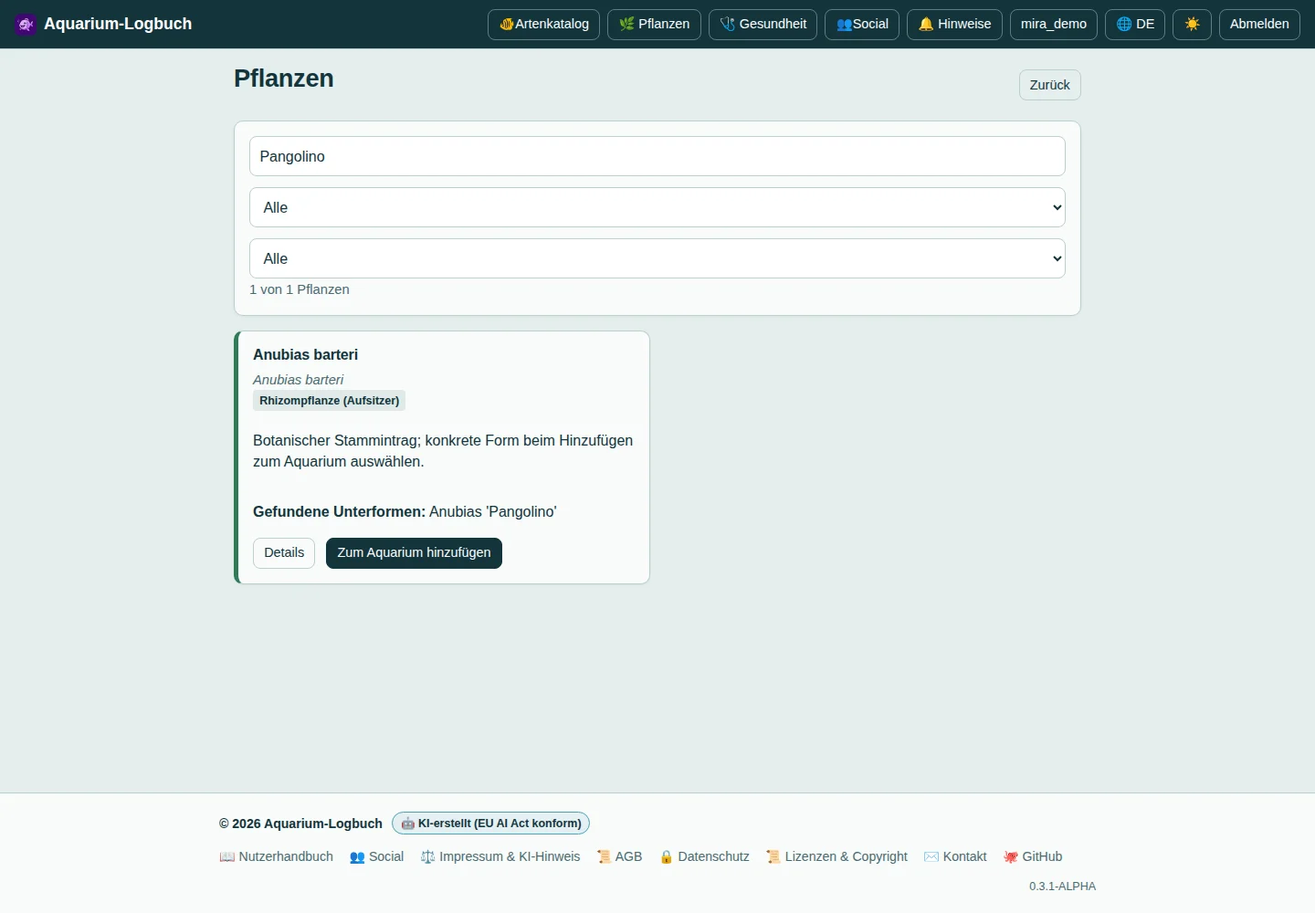
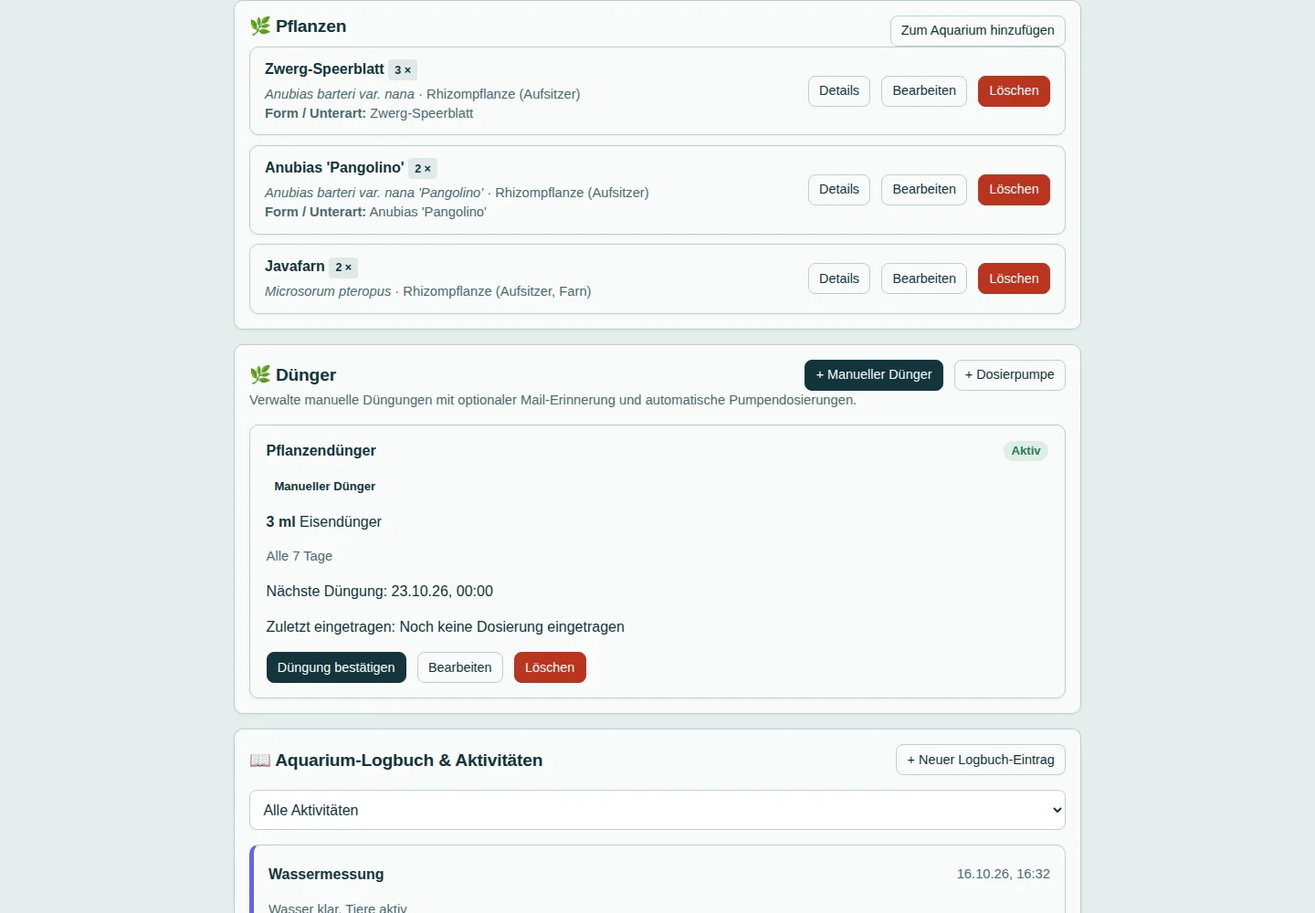
feat(aquarium): Gespeicherte Unterformen im Bestand anzeigen

diff --git a/public/handbuch/index.html b/public/handbuch/index.html
@@ -41,8 +41,8 @@
 <section id="pflege" aria-labelledby="title-pflege"><p class="eyebrow">Kapitel 06</p><h2 id="title-pflege">Pflege ins Logbuch eintragen</h2><p class="intro">Im Logbuch hältst du fest, was du am Becken gemacht hast. Messungen erscheinen dort ebenfalls.</p><figure><a href="images/logbuch.webp" aria-label="Pflege ins Logbuch eintragen: Screenshot in voller Größe öffnen"><img src="images/logbuch.webp" width="1440" height="1000" loading="lazy" decoding="async" alt="Ein neuer Logbucheintrag für einen Wasserwechsel."></a><figcaption>Ein neuer Logbucheintrag für einen Wasserwechsel. <a href="images/logbuch.webp">Vergrößern</a></figcaption></figure><ol class="steps"><li>Wähle im Aquarium „Neuer Logbuch-Eintrag“. Stelle Zeitpunkt und Art der Arbeit ein.</li><li>Für einen Wasserwechsel gibst du den gewechselten Anteil in Prozent an. Beschreibe andere Arbeiten in den passenden Feldern.</li><li>Du kannst unter anderem Wasserwechsel, Filterpflege, Pflanzenschnitt, neue Pflanzen, Reinigung, Düngung und Fütterung dokumentieren.</li><li>Speichere den Eintrag. Im Bereich „Aquarium-Logbuch &amp; Aktivitäten“ kannst du nach Aktivitätsart filtern und ältere Einträge nachladen.</li><li>Bei eigenen oder entsprechend freigegebenen Aquarien kannst du Pflegeeinträge bearbeiten oder löschen.</li></ol><aside class="note"><h3>Erinnerungen einrichten</h3><p>Über „Zyklen einstellen“ legst du Intervalle für Messung und Düngung fest, zum Beispiel alle sieben Tage oder an einem Wochentag. Die App zeigt fällige Arbeiten an. E-Mail-Erinnerungen benötigen aktivierte Erinnerungen und eingerichteten Mailversand.</p></aside><a class="back-top" href="#inhalt">↑ Zum Inhaltsverzeichnis</a></section>
 <section id="duengung" aria-labelledby="title-duengung"><p class="eyebrow">Kapitel 07</p><h2 id="title-duengung">Dünger und Dosierpläne verwalten</h2><p class="intro">Die App dokumentiert Düngungen und erinnert an geplante Arbeiten. Sie schaltet keine echte Dosierpumpe.</p><figure><a href="images/duenger.webp" aria-label="Dünger und Dosierpläne verwalten: Screenshot in voller Größe öffnen"><img src="images/duenger.webp" width="1440" height="1000" loading="lazy" decoding="async" alt="Der Düngerbereich mit einem manuellen Beispieldünger."></a><figcaption>Der Düngerbereich mit einem manuellen Beispieldünger. <a href="images/duenger.webp">Vergrößern</a></figcaption></figure><ol class="steps"><li>Scrolle im Aquarium zu „Dünger“. Wähle „+ Manueller Dünger“ oder „+ Dosierpumpe“.</li><li>Gib einen verständlichen Namen, den Dünger, die Menge in Millilitern und das Intervall ein. Ergänze die angebotenen Zeit- und Erinnerungsfelder.</li><li>Bei einem manuellen Dünger bestätigst du die tatsächlich erledigte Dosierung über die angebotene Schaltfläche. Dadurch entsteht ein Logbucheintrag.</li><li>Bei automatischen Pumpenplänen dokumentiert die App fällige Dosierungen gemäß dem Plan. Kontrolliere die echte Pumpe unabhängig davon.</li><li>Bearbeite oder pausiere einen Plan, wenn sich die Düngung ändert. Beim Entfernen eines Plans bleiben bereits vorhandene Logbucheinträge erhalten.</li></ol><a class="back-top" href="#inhalt">↑ Zum Inhaltsverzeichnis</a></section>
 <section id="arten" aria-labelledby="title-arten"><p class="eyebrow">Kapitel 08</p><h2 id="title-arten">Artenkatalog als Nachschlagewerk</h2><p class="intro">Du kannst auch ohne einen neuen Besatzeintrag nach einer Art suchen.</p><figure><a href="images/arten.webp" aria-label="Artenkatalog als Nachschlagewerk: Screenshot in voller Größe öffnen"><img src="images/arten.webp" width="1440" height="1000" loading="lazy" decoding="async" alt="Suche nach L144: Die Stammkachel nennt die gefundene Unterform."></a><figcaption>Suche nach L144: Die Stammkachel nennt die gefundene Unterform. <a href="images/arten.webp">Vergrößern</a></figcaption></figure><ol class="steps"><li>Öffne „Artenkatalog“ in der Kopfzeile.</li><li>Schränke die Liste über Wasserart und Kategorie ein oder suche nach Art, Zuchtform oder Handelsname. Passende Formen führen zu einer gemeinsamen Stammkachel. Der Hinweis „Gefundene Unterformen“ nennt die passenden Formen direkt auf der Kachel.</li><li>Öffne einen Treffer. Lies Wasseransprüche, Gruppenhinweise, Mindestvolumen, Haltung und Bildnachweise.</li><li>Füge eine passende Art bei Bedarf aus ihren Details zu einem Aquarium hinzu oder öffne den zugeordneten Gesundheitsbereich.</li></ol><a class="back-top" href="#inhalt">↑ Zum Inhaltsverzeichnis</a></section>
-<section id="besatz" aria-labelledby="title-besatz"><p class="eyebrow">Kapitel 09</p><h2 id="title-besatz">Tiere und Verträglichkeit</h2><p class="intro">Erfasse Tiere möglichst über den Artenkatalog, damit ihre Haltungsanforderungen zugeordnet werden können.</p><figure><a href="images/besatz.webp" aria-label="Tiere und Verträglichkeit: Screenshot in voller Größe öffnen"><img src="images/besatz.webp" width="1440" height="1000" loading="lazy" decoding="async" alt="Tiere hinzufügen: Die Goldform wird beim gemeinsamen Fadenfisch-Eintrag ausgewählt."></a><figcaption>Tiere hinzufügen: Die Goldform wird beim gemeinsamen Fadenfisch-Eintrag ausgewählt. <a href="images/besatz.webp">Vergrößern</a></figcaption></figure><ol class="steps"><li>Öffne „Artenkatalog“ und suche nach der gewünschten Art. Prüfe Wasserart, Beckenvolumen und Gruppenhinweise.</li><li>Wähle beim Stammeintrag „Zum Aquarium hinzufügen“. Im Feld „Form / Unterart“ wählst du die belegte Form oder Varietät oder lässt sie offen. Trage dann die Anzahl ein; einzelne Tiere dürfen eigene Namen bekommen.</li><li>Im Aquarium kannst du auch freie Bewohner eintragen, Anzahl und Namen ändern sowie ein Porträt hochladen.</li><li>„Artendetails“ öffnet bei bekannten Arten die Informationen erneut. Über den Bewohner kannst du auch den Diagnose-Assistenten aufrufen.</li><li>Lies die Verträglichkeitshinweise zu Gruppengröße, Beckengröße, Verhalten und Ansprüchen. Bei freien Einträgen ohne Katalogtreffer stehen weniger automatische Informationen zur Verfügung.</li><li>Entferne Tiere, die nicht mehr im Becken sind, damit Auswertungen und Grenzwerte zum aktuellen Besatz passen.</li></ol><aside class="note"><h3>Artenkatalog durchsuchen</h3><p>Filtere nach Wasserart und Kategorie oder suche nach Namen. Ein Bild öffnet nicht automatisch eine Freigabe deines Aquariums. Quellen und Bildnachweise findest du in den Artendetails.</p></aside><a class="back-top" href="#inhalt">↑ Zum Inhaltsverzeichnis</a></section>
-<section id="pflanzen" aria-labelledby="title-pflanzen"><p class="eyebrow">Kapitel 10</p><h2 id="title-pflanzen">Pflanzen suchen und zum Becken hinzufügen</h2><p class="intro">Der Pflanzenkatalog hilft dir, passende Pflanzen zu finden und den Bestand im Aquarium festzuhalten.</p><figure><a href="images/pflanzen.webp" aria-label="Pflanzen suchen und zum Becken hinzufügen: Screenshot in voller Größe öffnen"><img src="images/pflanzen.webp" width="1440" height="1000" loading="lazy" decoding="async" alt="Suche nach Pangolino: Die Anubias-barteri-Kachel nennt die gefundene Unterform."></a><figcaption>Suche nach Pangolino: Die Anubias-barteri-Kachel nennt die gefundene Unterform. <a href="images/pflanzen.webp">Vergrößern</a></figcaption></figure><ol class="steps"><li>Öffne „Pflanzen“ in der Kopfzeile. Filtere nach Wasserart und Kategorie oder suche nach Art- bzw. Sortennamen. Formen erscheinen unter einer gemeinsamen Stammkachel; „Gefundene Unterformen“ zeigt passende Formen zur Suche an.</li><li>Öffne eine Pflanze und lies die Hinweise zu Platzierung, Licht, Wachstum und Pflege.</li><li>Wähle „Zum Aquarium hinzufügen“, ein passendes Aquarium und gegebenenfalls die konkrete Form im Feld „Form / Unterart“. Gib die Stückzahl an und speichere. Die ausgewählte Form bleibt im Bestand getrennt erkennbar.</li><li>Im Pflanzenbereich des Aquariums kannst du Mengen ändern oder Pflanzen entfernen.</li><li>Einen Pflanzenschnitt oder eine Neupflanzung dokumentierst du zusätzlich im Logbuch, wenn du die Arbeit im Verlauf festhalten möchtest.</li></ol><a class="back-top" href="#inhalt">↑ Zum Inhaltsverzeichnis</a></section>
+<section id="besatz" aria-labelledby="title-besatz"><p class="eyebrow">Kapitel 09</p><h2 id="title-besatz">Tiere und Verträglichkeit</h2><p class="intro">Erfasse Tiere möglichst über den Artenkatalog, damit ihre Haltungsanforderungen zugeordnet werden können.</p><figure><a href="images/besatz.webp" aria-label="Tiere und Verträglichkeit: Screenshot in voller Größe öffnen"><img src="images/besatz.webp" width="1440" height="1000" loading="lazy" decoding="async" alt="Aquariumbesatz: Auch beim Tier mit eigenem Namen wird die gewählte Goldform angezeigt."></a><figcaption>Aquariumbesatz: Auch beim Tier mit eigenem Namen wird die gewählte Goldform angezeigt. <a href="images/besatz.webp">Vergrößern</a></figcaption></figure><ol class="steps"><li>Öffne „Artenkatalog“ und suche nach der gewünschten Art. Prüfe Wasserart, Beckenvolumen und Gruppenhinweise.</li><li>Wähle beim Stammeintrag „Zum Aquarium hinzufügen“. Im Feld „Form / Unterart“ wählst du die belegte Form oder Varietät oder lässt sie offen. Trage dann die Anzahl ein; einzelne Tiere dürfen eigene Namen bekommen.</li><li>Im Aquarium kannst du auch freie Bewohner eintragen, Anzahl und Namen ändern sowie ein Porträt hochladen. Bei gespeicherten Formen zeigt „Form / Unterart“ die gewählte Form an, auch bei Tieren mit eigenem Namen und offline.</li><li>„Artendetails“ öffnet bei bekannten Arten die Informationen erneut. Über den Bewohner kannst du auch den Diagnose-Assistenten aufrufen.</li><li>Lies die Verträglichkeitshinweise zu Gruppengröße, Beckengröße, Verhalten und Ansprüchen. Bei freien Einträgen ohne Katalogtreffer stehen weniger automatische Informationen zur Verfügung.</li><li>Entferne Tiere, die nicht mehr im Becken sind, damit Auswertungen und Grenzwerte zum aktuellen Besatz passen.</li></ol><aside class="note"><h3>Artenkatalog durchsuchen</h3><p>Filtere nach Wasserart und Kategorie oder suche nach Namen. Ein Bild öffnet nicht automatisch eine Freigabe deines Aquariums. Quellen und Bildnachweise findest du in den Artendetails.</p></aside><a class="back-top" href="#inhalt">↑ Zum Inhaltsverzeichnis</a></section>
+<section id="pflanzen" aria-labelledby="title-pflanzen"><p class="eyebrow">Kapitel 10</p><h2 id="title-pflanzen">Pflanzen suchen und zum Becken hinzufügen</h2><p class="intro">Der Pflanzenkatalog hilft dir, passende Pflanzen zu finden und den Bestand im Aquarium festzuhalten.</p><figure><a href="images/pflanzen.webp" aria-label="Pflanzen suchen und zum Becken hinzufügen: Screenshot in voller Größe öffnen"><img src="images/pflanzen.webp" width="1440" height="1000" loading="lazy" decoding="async" alt="Pflanzenbestand im Aquarium: Gewählte Formen wie Pangolino werden ausdrücklich angezeigt."></a><figcaption>Pflanzenbestand im Aquarium: Gewählte Formen wie Pangolino werden ausdrücklich angezeigt. <a href="images/pflanzen.webp">Vergrößern</a></figcaption></figure><ol class="steps"><li>Öffne „Pflanzen“ in der Kopfzeile. Filtere nach Wasserart und Kategorie oder suche nach Art- bzw. Sortennamen. Formen erscheinen unter einer gemeinsamen Stammkachel; „Gefundene Unterformen“ zeigt passende Formen zur Suche an.</li><li>Öffne eine Pflanze und lies die Hinweise zu Platzierung, Licht, Wachstum und Pflege.</li><li>Wähle „Zum Aquarium hinzufügen“, ein passendes Aquarium und gegebenenfalls die konkrete Form im Feld „Form / Unterart“. Gib die Stückzahl an und speichere. Die ausgewählte Form bleibt im Bestand getrennt erkennbar. Im Aquarium steht die gewählte Form zusätzlich unter „Form / Unterart“, auch offline.</li><li>Im Pflanzenbereich des Aquariums kannst du Mengen ändern oder Pflanzen entfernen.</li><li>Einen Pflanzenschnitt oder eine Neupflanzung dokumentierst du zusätzlich im Logbuch, wenn du die Arbeit im Verlauf festhalten möchtest.</li></ol><a class="back-top" href="#inhalt">↑ Zum Inhaltsverzeichnis</a></section>
 <section id="fotos" aria-labelledby="title-fotos"><p class="eyebrow">Kapitel 11</p><h2 id="title-fotos">Fotos und Galerie</h2><p class="intro">Galeriefotos gehören zunächst zu deinem Aquarium. Sie werden nicht automatisch im öffentlichen Social-Feed veröffentlicht.</p><figure><a href="images/galerie.webp" aria-label="Fotos und Galerie: Screenshot in voller Größe öffnen"><img src="images/galerie.webp" width="1440" height="1000" loading="lazy" decoding="async" alt="Die Galerie des Demo-Aquariums mit einer ausdrücklich künstlichen Beispielillustration."></a><figcaption>Die Galerie des Demo-Aquariums mit einer ausdrücklich künstlichen Beispielillustration. <a href="images/galerie.webp">Vergrößern</a></figcaption></figure><ol class="steps"><li>Wähle im Aquarium „+ Foto hochladen“. Erlaubt sind PNG, JPG, WebP oder GIF bis zur angezeigten Grenze von fünf Megabyte.</li><li>Wähle ein eigenes Bild und ergänze eine Bildunterschrift. Du kannst das Foto als Titelbild des Aquariums festlegen.</li><li>Öffne ein Galeriebild für die Großansicht. Bildunterschriften und Titelbild lassen sich später ändern.</li><li>Nicht mehr benötigte Bilder kannst du mit ausreichender Berechtigung löschen.</li><li>Ein Porträt für einen Bewohner lädst du im Besatzbereich hoch. Deinen eigenen Avatar änderst du im Profil.</li></ol><a class="back-top" href="#inhalt">↑ Zum Inhaltsverzeichnis</a></section>
 <section id="teilen" aria-labelledby="title-teilen"><p class="eyebrow">Kapitel 12</p><h2 id="title-teilen">Ein Aquarium mit anderen teilen</h2><p class="intro">Eine Aquariumfreigabe ist etwas anderes als ein öffentlicher Social-Beitrag. Eine Freigabe geht an ein bestimmtes Benutzerkonto.</p><figure><a href="images/freigaben.webp" aria-label="Ein Aquarium mit anderen teilen: Screenshot in voller Größe öffnen"><img src="images/freigaben.webp" width="1440" height="1000" loading="lazy" decoding="async" alt="Eine bestehende Schreibfreigabe für das erfundene Konto leo_demo."></a><figcaption>Eine bestehende Schreibfreigabe für das erfundene Konto leo_demo. <a href="images/freigaben.webp">Vergrößern</a></figcaption></figure><ol class="steps"><li>Öffne dein eigenes Aquarium und wähle „Aquarium teilen“. Suche nach Benutzername oder E-Mail-Adresse des anderen Kontos.</li><li>Wähle „Lesen“, wenn die Person nur schauen soll. Mit „Schreiben“ kann sie zusätzlich unterstützte Daten pflegen.</li><li>Die eingeladene Person nimmt die Einladung an. Danach findet sie das Becken unter „Mit mir geteilt“.</li><li>Du kannst bestehende Freigaben prüfen, die Rolle ändern oder den Zugriff entziehen. Nur der Eigentümer verwaltet die Freigaben.</li><li>Einladungen und Rechteänderungen brauchen eine Serververbindung.</li></ol><aside class="note"><h3>Was bedeuten die Rollen?</h3><p>Lesen erlaubt das Ansehen von Daten, Verlauf, Besatz und Bildern. Schreiben erlaubt zusätzlich zum Beispiel Messungen, Pflege und Besatzänderungen. Das Löschen des gesamten Aquariums bleibt dem Eigentümer vorbehalten. Offline gespeicherte Kopien auf fremden Geräten lassen sich durch einen Rechteentzug nicht rückwirkend vom Gerät löschen.</p></aside><a class="back-top" href="#inhalt">↑ Zum Inhaltsverzeichnis</a></section>
 <section id="csv" aria-labelledby="title-csv"><p class="eyebrow">Kapitel 13</p><h2 id="title-csv">Messdaten importieren und exportieren</h2><p class="intro">CSV ist ein einfaches Tabellenformat. Damit kannst du Daten übertragen oder in einem Tabellenprogramm auswerten.</p><figure><a href="images/csv-import.webp" aria-label="Messdaten importieren und exportieren: Screenshot in voller Größe öffnen"><img src="images/csv-import.webp" width="1440" height="1000" loading="lazy" decoding="async" alt="CSV-Import mit Vorschau und Spaltenzuordnung."></a><figcaption>CSV-Import mit Vorschau und Spaltenzuordnung. <a href="images/csv-import.webp">Vergrößern</a></figcaption></figure><ol class="steps"><li>Wähle im Aquarium „CSV-Export“, um Messdaten herunterzuladen. Für Excel eignet sich die angebotene Variante mit Semikolon; es entsteht eine CSV-Datei, keine XLSX-Datei.</li><li>Wähle „CSV-Import“, wenn du vorhandene Messwerte übernehmen möchtest. Lade eine Datei oder nutze das angebotene Texteingabefeld.</li><li>Prüfe das Trennzeichen und ob die erste Zeile Überschriften enthält.</li><li>Ordne jede benötigte Spalte einem Feld zu, zum Beispiel Datum, Uhrzeit, pH-Wert oder Notiz. Nicht benötigte Spalten kannst du ignorieren.</li><li>Kontrolliere die Vorschau und starte erst dann den Import. Beachte Hinweise zu ungültigen oder übersprungenen Zeilen.</li><li>Prüfe anschließend Verlauf und Tabelle. Importierte Messwerte werden bewertet und können Testverbrauch erzeugen.</li></ol><aside class="note"><h3>Vor größeren Importen</h3><p>Bewahre die Originaldatei auf und lasse wichtige vorhandene Daten vorher sichern. Ein zweiter absichtlicher Import derselben Datei ist eine neue Aktion; die Wiederholungssicherung beim Synchronisieren ersetzt keine Prüfung deiner Importauswahl.</p></aside><a class="back-top" href="#inhalt">↑ Zum Inhaltsverzeichnis</a></section>

diff --git a/public/handbuch/en/index.html b/public/handbuch/en/index.html
@@ -41,8 +41,8 @@
 <section id="pflege" aria-labelledby="title-pflege"><p class="eyebrow">Chapter 06</p><h2 id="title-pflege">Record care in the logbook</h2><p class="intro">Use the logbook to record work on your tank. Measurements appear there too.</p><figure><a href="../images/logbuch.webp" aria-label="Record care in the logbook: Open screenshot at full size"><img src="../images/logbuch.webp" width="1440" height="1000" loading="lazy" decoding="async" alt="A new logbook entry for a water change."></a><figcaption>A new logbook entry for a water change. <a href="../images/logbuch.webp">Enlarge</a></figcaption></figure><ol class="steps"><li>Choose “New logbook entry” in the aquarium. Set the time and type of work.</li><li>For water changes, enter the percentage of water replaced. Describe other work in the appropriate fields.</li><li>You can document water changes, filter maintenance, plant trimming, new plants, cleaning, fertilization, feeding and other activities.</li><li>Save the entry. In “Aquarium logbook &amp; activities”, filter by activity type or load older entries.</li><li>You can edit or delete care entries in your own aquariums or tanks shared with the appropriate permission.</li></ol><aside class="note"><h3>Set up reminders</h3><p>Use “Configure cycles” to set measurement and fertilization intervals, such as every seven days or on a specific weekday. The app shows due tasks. Email reminders require enabled reminders and configured email delivery.</p></aside><a class="back-top" href="#inhalt">↑ Back to contents</a></section>
 <section id="duengung" aria-labelledby="title-duengung"><p class="eyebrow">Chapter 07</p><h2 id="title-duengung">Manage fertilizers and dosing plans</h2><p class="intro">The app records fertilization and reminds you of planned work. It does not control a physical dosing pump.</p><figure><a href="../images/duenger.webp" aria-label="Manage fertilizers and dosing plans: Open screenshot at full size"><img src="../images/duenger.webp" width="1440" height="1000" loading="lazy" decoding="async" alt="The fertilizer section with an example manual fertilizer."></a><figcaption>The fertilizer section with an example manual fertilizer. <a href="../images/duenger.webp">Enlarge</a></figcaption></figure><ol class="steps"><li>Scroll to “Fertilizers” in the aquarium. Choose “+ Manual fertilizer” or “+ Dosing pump”.</li><li>Enter a clear name, the fertilizer, the amount in milliliters and the interval. Fill in the available time and reminder options.</li><li>For a manual fertilizer, confirm a dose you have actually administered using the provided button. This creates a logbook entry.</li><li>For automatic pump schedules, the app records due doses according to the plan. Check your physical pump independently.</li><li>Edit or pause a plan when your fertilization changes. Removing a plan leaves existing logbook entries intact.</li></ol><a class="back-top" href="#inhalt">↑ Back to contents</a></section>
 <section id="arten" aria-labelledby="title-arten"><p class="eyebrow">Chapter 08</p><h2 id="title-arten">Use the species catalog as a reference</h2><p class="intro">You can look up a species without adding a new resident.</p><figure><a href="../images/arten.webp" aria-label="Use the species catalog as a reference: Open screenshot at full size"><img src="../images/arten.webp" width="1440" height="1000" loading="lazy" decoding="async" alt="Searching for L144: the parent card names the matching form."></a><figcaption>Searching for L144: the parent card names the matching form. <a href="../images/arten.webp">Enlarge</a></figcaption></figure><ol class="steps"><li>Open “Species catalog” in the header.</li><li>Filter by water type and category, or search for a species, cultivar or trade name. Matching forms lead to one shared parent card. “Matching forms” lists their names directly on the card.</li><li>Open a result. Read its water requirements, group guidance, minimum tank volume, care information and image credits.</li><li>If appropriate, add the species to an aquarium from its details or open the linked health information.</li></ol><a class="back-top" href="#inhalt">↑ Back to contents</a></section>
-<section id="besatz" aria-labelledby="title-besatz"><p class="eyebrow">Chapter 09</p><h2 id="title-besatz">Animals and compatibility</h2><p class="intro">Add animals through the species catalog whenever possible so their care requirements can be associated with them.</p><figure><a href="../images/besatz.webp" aria-label="Animals and compatibility: Open screenshot at full size"><img src="../images/besatz.webp" width="1440" height="1000" loading="lazy" decoding="async" alt="Adding animals: the Gold form is selected under the shared three-spot gourami entry."></a><figcaption>Adding animals: the Gold form is selected under the shared three-spot gourami entry. <a href="../images/besatz.webp">Enlarge</a></figcaption></figure><ol class="steps"><li>Open “Species catalog” and search for the species. Check its water type, tank volume and group requirements.</li><li>Choose “Add to aquarium” from the parent entry. Select a documented form or variety in “Form / subspecies”, or leave it unspecified. Then enter the quantity; individual animals can have names.</li><li>In the aquarium, you can also add custom residents, change quantities and names, or upload a portrait.</li><li>For known species, “Species details” opens their information again. You can also start the diagnosis assistant from a resident.</li><li>Read compatibility guidance on group size, tank size, behavior and requirements. Custom entries without a catalog match have less automatic information.</li><li>Remove animals that are no longer in the tank so assessments and thresholds reflect the current stock.</li></ol><aside class="note"><h3>Browse the species catalog</h3><p>Filter by water type and category or search by name. Viewing an image does not share your aquarium. Sources and image credits are listed in the species details.</p></aside><a class="back-top" href="#inhalt">↑ Back to contents</a></section>
-<section id="pflanzen" aria-labelledby="title-pflanzen"><p class="eyebrow">Chapter 10</p><h2 id="title-pflanzen">Find plants and add them to a tank</h2><p class="intro">The plant catalog helps you find suitable plants and record the stock in your aquarium.</p><figure><a href="../images/pflanzen.webp" aria-label="Find plants and add them to a tank: Open screenshot at full size"><img src="../images/pflanzen.webp" width="1440" height="1000" loading="lazy" decoding="async" alt="Searching for Pangolino: the Anubias barteri card names the matching form."></a><figcaption>Searching for Pangolino: the Anubias barteri card names the matching form. <a href="../images/pflanzen.webp">Enlarge</a></figcaption></figure><ol class="steps"><li>Open “Plants” in the header. Filter by water type or category, or search for a species or cultivar name. Forms appear under a shared parent card; “Matching forms” lists the forms found by your search.</li><li>Open a plant and read its placement, lighting, growth and care guidance.</li><li>Choose “Add to aquarium”, select a suitable aquarium and, if offered, the specific form in “Form / subspecies”. Enter the quantity and save. The selected form keeps its own stock entry.</li><li>In the aquarium’s plant section, you can change quantities or remove plants.</li><li>To record trimming or planting in your history, add a separate logbook entry for that work.</li></ol><a class="back-top" href="#inhalt">↑ Back to contents</a></section>
+<section id="besatz" aria-labelledby="title-besatz"><p class="eyebrow">Chapter 09</p><h2 id="title-besatz">Animals and compatibility</h2><p class="intro">Add animals through the species catalog whenever possible so their care requirements can be associated with them.</p><figure><a href="../images/besatz.webp" aria-label="Animals and compatibility: Open screenshot at full size"><img src="../images/besatz.webp" width="1440" height="1000" loading="lazy" decoding="async" alt="Aquarium residents: the selected Gold form is shown even for an individually named animal."></a><figcaption>Aquarium residents: the selected Gold form is shown even for an individually named animal. <a href="../images/besatz.webp">Enlarge</a></figcaption></figure><ol class="steps"><li>Open “Species catalog” and search for the species. Check its water type, tank volume and group requirements.</li><li>Choose “Add to aquarium” from the parent entry. Select a documented form or variety in “Form / subspecies”, or leave it unspecified. Then enter the quantity; individual animals can have names.</li><li>In the aquarium, you can also add custom residents, change quantities and names, or upload a portrait. “Form / subspecies” identifies the selected form, including individually named animals and offline.</li><li>For known species, “Species details” opens their information again. You can also start the diagnosis assistant from a resident.</li><li>Read compatibility guidance on group size, tank size, behavior and requirements. Custom entries without a catalog match have less automatic information.</li><li>Remove animals that are no longer in the tank so assessments and thresholds reflect the current stock.</li></ol><aside class="note"><h3>Browse the species catalog</h3><p>Filter by water type and category or search by name. Viewing an image does not share your aquarium. Sources and image credits are listed in the species details.</p></aside><a class="back-top" href="#inhalt">↑ Back to contents</a></section>
+<section id="pflanzen" aria-labelledby="title-pflanzen"><p class="eyebrow">Chapter 10</p><h2 id="title-pflanzen">Find plants and add them to a tank</h2><p class="intro">The plant catalog helps you find suitable plants and record the stock in your aquarium.</p><figure><a href="../images/pflanzen.webp" aria-label="Find plants and add them to a tank: Open screenshot at full size"><img src="../images/pflanzen.webp" width="1440" height="1000" loading="lazy" decoding="async" alt="Plants in the aquarium: selected forms such as Pangolino are explicitly identified."></a><figcaption>Plants in the aquarium: selected forms such as Pangolino are explicitly identified. <a href="../images/pflanzen.webp">Enlarge</a></figcaption></figure><ol class="steps"><li>Open “Plants” in the header. Filter by water type or category, or search for a species or cultivar name. Forms appear under a shared parent card; “Matching forms” lists the forms found by your search.</li><li>Open a plant and read its placement, lighting, growth and care guidance.</li><li>Choose “Add to aquarium”, select a suitable aquarium and, if offered, the specific form in “Form / subspecies”. Enter the quantity and save. The selected form keeps its own stock entry. In the aquarium, “Form / subspecies” also identifies the selected form, including offline.</li><li>In the aquarium’s plant section, you can change quantities or remove plants.</li><li>To record trimming or planting in your history, add a separate logbook entry for that work.</li></ol><a class="back-top" href="#inhalt">↑ Back to contents</a></section>
 <section id="fotos" aria-labelledby="title-fotos"><p class="eyebrow">Chapter 11</p><h2 id="title-fotos">Photos and gallery</h2><p class="intro">Gallery photos belong to your aquarium. They are not automatically published in the public Social feed.</p><figure><a href="../images/galerie.webp" aria-label="Photos and gallery: Open screenshot at full size"><img src="../images/galerie.webp" width="1440" height="1000" loading="lazy" decoding="async" alt="The demo aquarium gallery with an explicitly artificial example illustration."></a><figcaption>The demo aquarium gallery with an explicitly artificial example illustration. <a href="../images/galerie.webp">Enlarge</a></figcaption></figure><ol class="steps"><li>Choose “+ Upload photo” in the aquarium. PNG, JPG, WebP and GIF are supported up to the displayed five-megabyte limit.</li><li>Choose your own image and add a caption. You can set it as the aquarium’s cover photo.</li><li>Open a gallery image to view it at full size. You can change captions and the cover photo later.</li><li>With sufficient permission, you can delete images you no longer need.</li><li>Upload a resident portrait in the residents section. Change your own avatar in your profile.</li></ol><a class="back-top" href="#inhalt">↑ Back to contents</a></section>
 <section id="teilen" aria-labelledby="title-teilen"><p class="eyebrow">Chapter 12</p><h2 id="title-teilen">Share an aquarium with other people</h2><p class="intro">Sharing an aquarium is different from publishing a Social post. An aquarium share is granted to a specific user account.</p><figure><a href="../images/freigaben.webp" aria-label="Share an aquarium with other people: Open screenshot at full size"><img src="../images/freigaben.webp" width="1440" height="1000" loading="lazy" decoding="async" alt="An existing write-access share for the fictional leo_demo account."></a><figcaption>An existing write-access share for the fictional leo_demo account. <a href="../images/freigaben.webp">Enlarge</a></figcaption></figure><ol class="steps"><li>Open an aquarium you own and choose “Share aquarium”. Search for the other account’s username or email address.</li><li>Choose “Read” if the person should only view the tank. “Write” also lets them maintain supported data.</li><li>The invited person accepts the invitation. They can then find the tank under “Shared with me”.</li><li>You can review existing shares, change roles or revoke access. Only the owner manages shares.</li><li>Invitations and permission changes require a server connection.</li></ol><aside class="note"><h3>What do the roles mean?</h3><p>Read access allows viewing data, history, residents and images. Write access additionally allows actions such as measurements, care entries and stocking changes. Only the owner can delete the entire aquarium. Revoking access cannot retroactively erase offline copies already saved on another person’s device.</p></aside><a class="back-top" href="#inhalt">↑ Back to contents</a></section>
 <section id="csv" aria-labelledby="title-csv"><p class="eyebrow">Chapter 13</p><h2 id="title-csv">Import and export measurement data</h2><p class="intro">CSV is a simple table format. Use it to transfer data or analyze it in a spreadsheet.</p><figure><a href="../images/csv-import.webp" aria-label="Import and export measurement data: Open screenshot at full size"><img src="../images/csv-import.webp" width="1440" height="1000" loading="lazy" decoding="async" alt="CSV import with a preview and column mapping."></a><figcaption>CSV import with a preview and column mapping. <a href="../images/csv-import.webp">Enlarge</a></figcaption></figure><ol class="steps"><li>Choose “CSV export” in the aquarium to download measurements. The semicolon option works well with Excel; it creates a CSV file, not an XLSX file.</li><li>Choose “CSV import” to bring in existing measurements. Upload a file or use the provided text field.</li><li>Check the delimiter and whether the first row contains column headers.</li><li>Map each required column to a field such as date, time, pH or note. Ignore columns you do not need.</li><li>Review the preview before starting the import. Read any notices about invalid or skipped rows.</li><li>After importing, check the history and table. Imported readings are assessed and may count toward test consumption.</li></ol><aside class="note"><h3>Before large imports</h3><p>Keep the original file and back up important existing data first. Intentionally importing the same file again is a new action; synchronization deduplication does not replace checking your import selection.</p></aside><a class="back-top" href="#inhalt">↑ Back to contents</a></section>

diff --git a/test/requested_catalog_entries.test.js b/test/requested_catalog_entries.test.js
@@ -65,9 +65,15 @@ for (const type of ['sqlite', 'mongodb']) test(`Wunschkatalog: Suche, Pflanzenbe
     assert.equal((await env.request(root + '/plants/' + id, { method: 'PUT', headers, body: { count: 2 } })).status, 200);
   }
   assert.equal((await env.request(root + '/plants', { headers })).data.length, requests.length);
-  for (const id of fish) assert.equal((await env.request(root + '/stock/catalog', { method: 'POST', headers, body: { speciesId: id, count: 1, names: [] } })).status, 200);
+  for (const id of fish) assert.equal((await env.request(root + '/stock/catalog', { method: 'POST', headers, body: { speciesId: id, count: 1, names: [id === fish[0] ? "Goldie" : "Lenny"] } })).status, 200);
   for (const lang of ['de', 'en']) {
     const localized = { ...headers, 'X-Language': lang };
+    const speciesCatalog = require('../dist/backend/src/services/species-service');
+    const plantsCatalog = require('../dist/backend/src/services/plant-service').getPlantCatalog(lang);
+    const stock = (await env.request(root + '/stock', { headers: localized })).data;
+    for (const entry of stock) assert.equal(entry.variantName, speciesCatalog.getSpeciesById(entry.speciesId, lang).name);
+    const planted = (await env.request(root + '/plants', { headers: localized })).data;
+    for (const entry of planted) { const definition = plantsCatalog.plants.find(plant => plant.id === entry.plant_id);assert.equal(entry.variantName, definition.variantOf ? definition.name : null); }
     const residents = await env.request(`/api/health/aquariums/${created.data.id}/residents`, { headers: localized });
     assert.equal(residents.status, 200);assert.equal(residents.data.residents.length, 2);
     for (const resident of residents.data.residents) {
@@ -83,5 +89,14 @@ for (const type of ['sqlite', 'mongodb']) test(`Wunschkatalog: Suche, Pflanzenbe
     const health = await env.request('/api/catalogs/health?lang=' + lang, { headers });
     assert.equal(health.status, 200);
     for (const id of fish) assert.ok(health.data.data.catalog.species.some(species => species.id === id));
+    const workspace = (await env.request('/api/offline/state', { headers: localized })).data;
+    const definitions = (await env.request('/api/catalogs/species?lang=' + lang, { headers })).data;
+    const { deriveWorkspace } = require('../dist/backend/src/shared/offline-workspace-model');
+    // Simulate an older workspace that has not received the new presentation field yet.
+    for (const entry of [...workspace.responses[root.replace('/api', '') + '/stock'], ...workspace.responses[root.replace('/api', '') + '/plants']]) delete entry.variantName;
+    deriveWorkspace(workspace, { species: definitions, plants: plants.data });
+    assert.deepEqual(workspace.responses[root.replace('/api', '') + '/stock'].map(entry => entry.variantName), stock.map(entry => entry.variantName));
+    assert.deepEqual(workspace.responses[root.replace('/api', '') + '/plants'].map(entry => entry.variantName), planted.map(entry => entry.variantName));
+
   }
 });

diff --git a/src/shared/offline-workspace-model.ts b/src/shared/offline-workspace-model.ts
@@ -198,6 +198,14 @@ export function deriveWorkspace(snapshot: WorkspaceSnapshot, catalogs: { species
     const rows = (r[root + '/measurements?all=true'] || []).sort((a: any, b: any) => a.measured_at.localeCompare(b.measured_at));
     const stock = r[root + '/stock'] || [], logs = (r[root + '/maintenance'] || []).sort((a: any, b: any) => b.logged_at.localeCompare(a.logged_at));
     for (const entry of stock) { entry.has_image = Boolean(entry.image_file);entry.image_url = entry.image_file ? `api/aquariums/${aquarium.id}/stock/${entry.id}/image` : null; }
+    if (catalogs.species) for (const entry of stock) {
+      const species = catalogs.species.data.species.find(item => item.id === entry.speciesId || item.id === entry.species || [item.name, item.name_de, item.name_en, item.scientificName].some(name => name && name.toLowerCase() === entry.species.toLowerCase()));
+      entry.variantName = species?.variantOf ? species.name : null;
+    }
+    if (catalogs.plants) for (const entry of r[root + '/plants'] || []) {
+      const plant = catalogs.plants.data.plants.find(item => item.id === entry.plant_id);
+      entry.variantName = plant?.variantOf ? plant.name : null;
+    }
     const profiles: string[] = [...new Set<string>(stock.map((entry: any) => entry.profile || 'allgemein'))];
     const ranges = calculateThresholds(detail.aquarium.water_type, profiles, snapshot.rules.profiles, snapshot.rules.parameters);
     Object.assign(detail, ranges, { profiles, stock });

diff --git a/src/routes/aquariums.ts b/src/routes/aquariums.ts
@@ -54,6 +54,7 @@ function enrichStock(stockRows?: any, lang?: any) {
     return {
       ...s,
       speciesId: sp?.id || null,
+      variantName: sp?.variantOf ? sp.name : null,
       scientificName: sp?.scientificName || null,
       category: sp?.category || null,
       category_de: sp?.category_de || null,
@@ -482,7 +483,7 @@ router.get('/:id/plants', auth, ownAquarium, wrap(async (req: Request, res: Resp
   const rows = await db.plants.listForAquarium(req.aq.id);
   res.json(rows.map(row => {
     const plant = catalog.plants.find(item => item.id === row.plant_id);
-    return { ...row, name: plant?.name || row.plant_id, scientificName: plant?.scientificName || '', category: plant?.category || '' };
+    return { ...row, name: plant?.name || row.plant_id, scientificName: plant?.scientificName || '', category: plant?.category || '', variantName: plant?.variantOf ? plant.name : null };
   }));
 }));
 router.put('/:id/plants/:plantId', auth, writeAquarium, wrap(async (req: Request, res: Response) => {

diff --git a/public/frontend/components/PlantSection.vue b/public/frontend/components/PlantSection.vue
@@ -31,7 +31,7 @@ async function mutate(item: AquariumPlant, method: string, body?: unknown) {
     <p v-if="!plants.length" class="muted">{{ t('plantStock.empty') }}</p>
     <div class="stock-list">
       <div v-for="item in plants" :key="item.plant_id" class="stock-item">
-        <div><strong>{{ item.name }} <span class="tag">{{ item.count }} ×</span></strong><div class="muted"><em>{{ item.scientificName }}</em> · {{ item.category }}</div></div>
+        <div><strong>{{ item.name }} <span class="tag">{{ item.count }} ×</span></strong><div class="muted"><em>{{ item.scientificName }}</em> · {{ item.category }}</div><div v-if="item.variantName" class="muted"><strong>{{ t("variants.selected") }}</strong> {{ item.variantName }}</div></div>
         <div class="row">
           <button class="btn small ghost" @click="selected = item.plant_id">{{ t('common.details') }}</button>
           <template v-if="!readonly">

diff --git a/public/frontend/components/StockSection.vue b/public/frontend/components/StockSection.vue
@@ -81,9 +81,10 @@ async function remove(stock: Stock) {
           <div v-else class="stock-avatar-placeholder">🐠</div>
           <div>
             <strong class="stock-name-title"
-              >{{ item.name || item.species }}
+              >{{ item.name || item.variantName || item.species }}
               <span class="tag">{{ item.count }} ×</span></strong
             >
+            <div v-if="item.variantName" class="stock-species-sub"><strong>{{ t("variants.selected") }}</strong> {{ item.variantName }}</div>
             <div class="stock-species-sub">
               {{ item.species }} · {{ session.config?.profiles[item.profile] }}
             </div>

diff --git a/public/frontend/types.ts b/public/frontend/types.ts
@@ -169,6 +169,7 @@ export interface Aquarium {
   fertilize_reminder_mail?: number | boolean;
 }
 export interface Stock {
+  variantName?: string | null;
   speciesId?: string | null;
   id: Id;
   species: string;
@@ -294,4 +295,4 @@ export interface Field {
   options?: Record<string, string>;
 }
 
-export interface AquariumPlant { aquarium_id: number; plant_id: string; count: number; name: string; scientificName: string; category: string }
+export interface AquariumPlant { variantName?: string | null; aquarium_id: number; plant_id: string; count: number; name: string; scientificName: string; category: string }

diff --git a/docs/api/README.md b/docs/api/README.md
@@ -222,3 +222,5 @@ GET /api/plants/anubias-barteri-species
 Beim Hinzufügen weiterhin die gewählte ID übergeben: zum Beispiel `speciesId: "trichopodus-trichopterus-gold"` an den bestehenden Stock-Katalog-Endpunkt oder `PUT /api/aquariums/{id}/plants/anubias-nana-pangolino` mit `{"count": 2}`. Alte Detailpfade und gespeicherte IDs bleiben gültig. Gruppierung ist ausschließlich eine Darstellungs-/Suchfunktion; sie fasst Bestände verschiedener Varianten nicht zusammen. Authentifizierung, Rechte und Validierung der Hinzufügen-Endpunkte bleiben erhalten. Offline-Snapshots enthalten vollständige Einträge einschließlich Variantenbeziehungen und ermöglichen dieselbe Suche und Auswahl ohne Verbindung.
 
 Bei aktiver Suche enthalten Stammkacheln zusätzlich `matchedVariants` mit den Namen der tatsächlich passenden Unterformen. Ohne Suchbegriff oder Unterformtreffer entfällt dieses Feld; `variants` bleibt die vollständige Auswahlliste. Dies gilt auch für Offline-Abfragen.
+
+Aquarium-Besatz und Pflanzenbestand enthalten `variantName`: den lokalisierten Namen der gespeicherten Unterform oder `null` für Stammarten und freie Einträge. Individuelle Tiernamen bleiben davon unabhängig. Der Offline-Arbeitsstand leitet dieselbe Anzeige aus den vorhandenen Katalogen ab.

diff --git a/CHANGELOG.md b/CHANGELOG.md
@@ -6,7 +6,11 @@ Die bisherige Historie wurde aus den Commit-Beschreibungen übernommen; ältere 
 
 ## Unveröffentlicht
 
-- Auf Tier- und Pflanzenkacheln die Namen der durch die Suche gefundenen Unterformen anzeigen; Trefferhinweis für deutsche und englische Oberfläche sowie Offline-Suche bereitstellen. API-Dokumentation und Handbuch ergänzen.
+- Gespeicherte Unterformen im Aquarium bei Tieren und Pflanzen ausdrücklich anzeigen, auch bei individuell benannten Tieren und offline. Vorhandene Bestände anhand ihrer stabilen Katalog-IDs auflösen; keine zusätzlichen Katalogabfragen pro Bewohner. Handbuch und API-Dokumentation ergänzen.
+
+## 0.3.2-ALPHA
+
+- Auf Tier- und Pflanzenkacheln die Namen der durch die Suche gefundenen Unterformen anzeigen; Trefferhinweis für deutsche und englische Oberfläche sowie Offline-Suche bereitstellen. API-Dokumentation und Handbuch ergänzen. (`3fa2ef01678d85d058beead66187529df42e2a22`, 2026-10-16).
 
 ## 0.3.1-ALPHA
 
